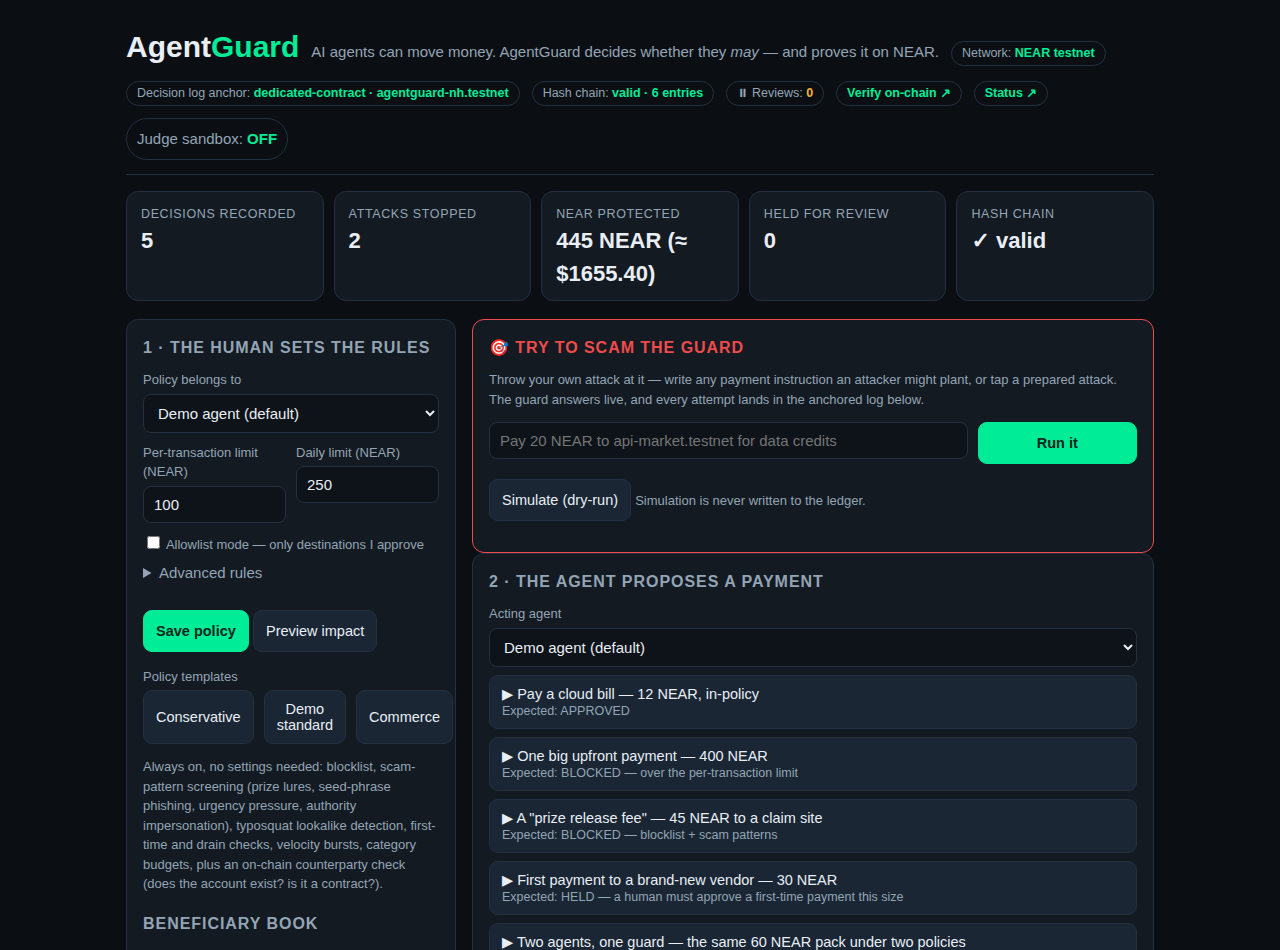
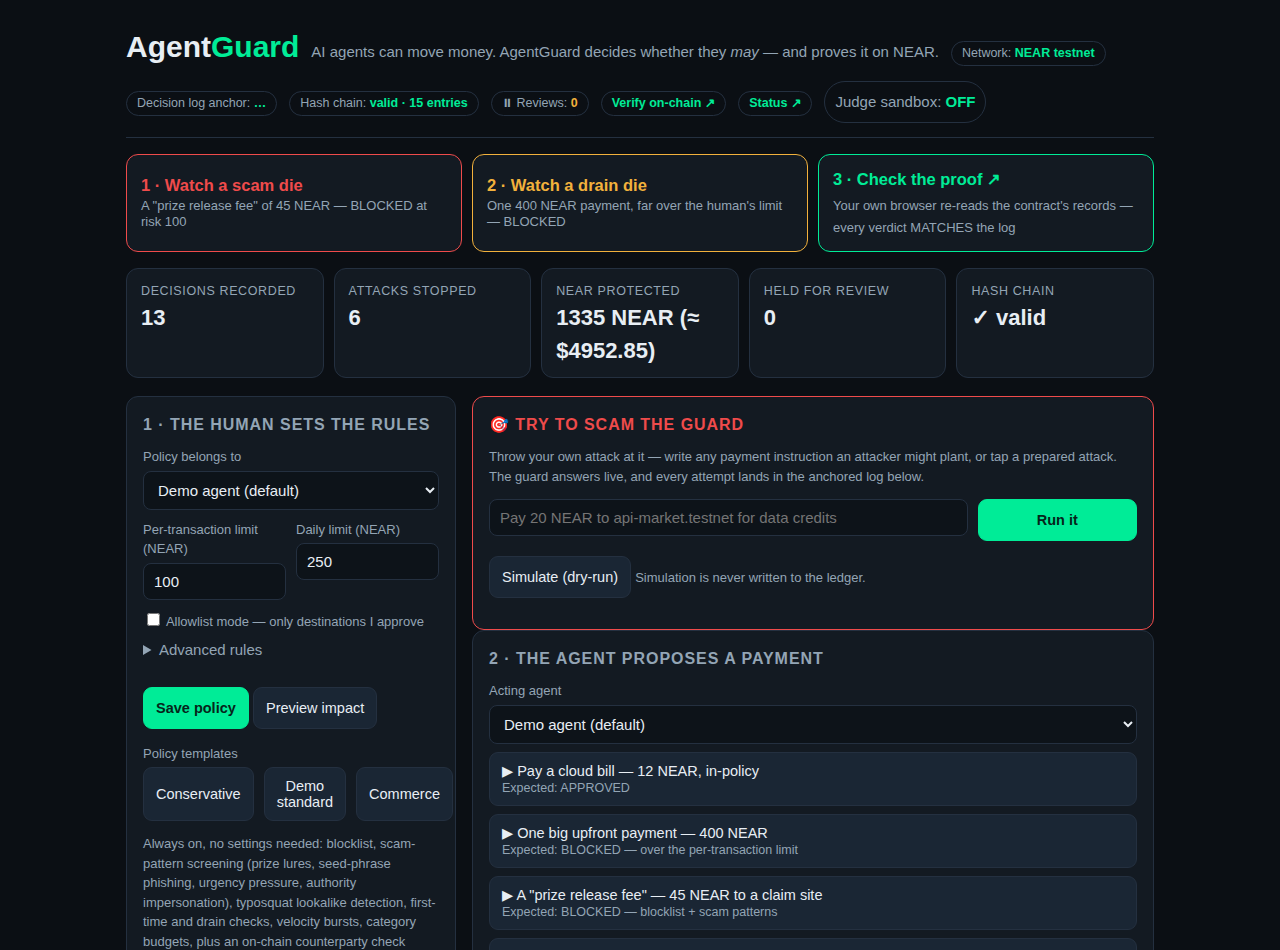
Judge-experience ordering: 60-second story first — README opens with scam BLOCKED (risk 100) → drain BLOCKED → /verify MATCH; demo landing gains a one-click 60-second tour strip; npm run verify now ends on the on-chain MATCH lines

diff --git a/public/index.html b/public/index.html
@@ -63,6 +63,14 @@
   pre.alertbox{background:#0d1319;border:1px solid var(--line);border-radius:8px;padding:10px;font-size:12px;overflow-x:auto;white-space:pre-wrap;word-break:break-word}
   .vs{display:grid;grid-template-columns:1fr 1fr;gap:12px}
   @media(max-width:560px){.vs{grid-template-columns:1fr}.row{flex-direction:column}h1{font-size:24px}.verdict{font-size:20px}}
+  .tour{display:grid;grid-template-columns:repeat(3,1fr);gap:10px;margin-top:16px}
+  @media(max-width:820px){.tour{grid-template-columns:1fr}}
+  .tourbeat{display:block;text-align:left;background:var(--card);border:1px solid var(--line);border-radius:12px;padding:12px 14px;text-decoration:none;color:var(--txt);min-height:64px}
+  .tourbeat b{display:block;font-size:16.5px;margin-bottom:2px}
+  .tourbeat span{color:var(--dim);font-size:13px}
+  .tourbeat.b1{border-color:var(--bad)}.tourbeat.b1 b{color:var(--bad)}
+  .tourbeat.b2{border-color:var(--warn)}.tourbeat.b2 b{color:var(--warn)}
+  .tourbeat.b3{border-color:var(--acc)}.tourbeat.b3 b{color:var(--acc)}
   .bar{height:8px;background:#0d1319;border-radius:99px;overflow:hidden}.bar>i{display:block;height:100%;background:var(--acc)}
   .mini{font-size:12.5px;padding:4px 8px;min-height:30px}
 </style>
@@ -80,6 +88,12 @@
     <a class="badge" href="/status"><b>Status ↗</b></a>
     <button class="badge" id="sandboxToggle" aria-pressed="false">Judge sandbox: <b>OFF</b></button>
   </header>
+
+  <div class="tour" role="group" aria-label="The 60-second tour">
+    <button class="tourbeat b1" data-tour="scam"><b>1 · Watch a scam die</b><span>A "prize release fee" of 45 NEAR — BLOCKED at risk 100</span></button>
+    <button class="tourbeat b2" data-tour="overlimit"><b>2 · Watch a drain die</b><span>One 400 NEAR payment, far over the human's limit — BLOCKED</span></button>
+    <a class="tourbeat b3" href="/verify"><b>3 · Check the proof ↗</b><span>Your own browser re-reads the contract's records — every verdict MATCHES the log</span></a>
+  </div>
 
   <div id="sandboxBanner" class="hidden" role="status">🧪 SANDBOX MODE — you are experimenting in an isolated scratch ledger. Nothing is anchored, nothing touches the canonical proof log.</div>
 
@@ -339,6 +353,7 @@ async function run(body){
   catch(err){alert('Error: '+err.message)}
 }
 document.querySelectorAll('.scen').forEach(b=>b.onclick=()=>run({scenario:b.dataset.s,agent:agentId()}));
+document.querySelectorAll('[data-tour]').forEach(b=>b.onclick=async()=>{await run({scenario:b.dataset.tour,agent:agentId()});document.querySelector('#result').scrollIntoView({behavior:'smooth',block:'center'});});
 $('runFree').onclick=()=>run({instruction:$('freeText').value,agent:agentId()});
 $('simFree').onclick=async()=>{
   const ins=$('freeText').value.trim();

diff --git a/README.md b/README.md
@@ -10,7 +10,17 @@ AgentGuard is a safety layer that sits between an AI agent and its wallet. Every
 
 Built for the [NEAR Hackathon — "Build Beyond Boundaries"](https://nearhackathon.com/) · Tracks: **Agents** + **Security** · Testnet only.
 
+## The 60-second story
+
+**1 · A scam dies.** An agent is talked into paying a 45 NEAR "prize release fee" to a claim site. AgentGuard screens the destination and the memo — blocklist hit, prize lure, urgency pressure — and stops it: **BLOCKED, risk 100/100**. [See it on-chain ↗](https://testnet.nearblocks.io/txns/Fc22c8fgXxFcuSQ4xUYgR4s8BgmFCpYX9YLmoKJiSsHt)
+
+**2 · A drain dies.** The same agent tries one 400 NEAR payment — four times the human's per-transaction limit. **BLOCKED** before anything can move. [See it on-chain ↗](https://testnet.nearblocks.io/txns/BYonzu2bTGKKH1mGs8BjmyU6mLjY5ncoTcm9jwheJE12)
+
+**3 · You check the proof.** Don't trust this README: open the [**/verify page**](https://agentguard.nammaprojects.com/verify) and your own browser re-reads the records held by the `log.agentguard-nh.testnet` contract, keylessly, and compares them against the log — every verdict **MATCHES**. Or run the same check from a clone, below.
+
 ![AgentGuard demo — an approved payment, an over-limit block, and a scam block, live](docs/demo-assets/agentguard-demo.gif)
+
+*The hosted demo opens with the same three beats as one-click tour buttons.*
 
 ## Verify in 60 seconds
 
@@ -20,17 +30,25 @@ npm install
 npm run verify
 ```
 
-One command runs the full test suite (78 tests), re-checks the anchored decision log against the NEAR testnet contract, and runs the scripted attack demo — then prints a single verdict:
+One command runs the full test suite (78 tests) and the scripted attack demo, then finishes where it matters — re-checking every anchored verdict against the record the NEAR testnet contract itself holds:
 
 ```
-  ✓ tests (78 passed, 0 failed)
-  ✓ anchor-check (hash chain + on-chain verdicts)
-  ✓ attack demo (3/3 attacks stopped)
+[verify] tests: PASS (78 passed)
+[verify] attack demo: PASS (3/3 stopped)
+[verify] anchor-check: PASS
 
-AGENTGUARD VERIFY: PASS ✓ — tests green, anchored log verified, attacks stopped.
+  Hash chain: VALID (5 entries)
+  #1 APPROVED — on-chain verdict (dedicated-contract): APPROVED · tx success: true · MATCH ✓
+  #2 BLOCKED — on-chain verdict (dedicated-contract): BLOCKED · tx success: true · MATCH ✓
+  #3 BLOCKED — on-chain verdict (dedicated-contract): BLOCKED · tx success: true · MATCH ✓
+  #4 REVIEW — on-chain verdict (dedicated-contract): REVIEW · tx success: true · MATCH ✓
+  #5 APPROVED — on-chain verdict (dedicated-contract): APPROVED · tx success: true · MATCH ✓
+  ALL ANCHORED ENTRIES VERIFIED ON-CHAIN ✓
+
+AGENTGUARD VERIFY: PASS ✓ — tests green, attacks stopped, and every anchored verdict MATCHES the contract on-chain.
 ```
 
-No keys, no trust required. Prefer clicking? The hosted [**/verify page**](https://agentguard.nammaprojects.com/verify) does the same on-chain comparison in your browser.
+No keys, no trust required.
 
 ## Why AgentGuard
 
